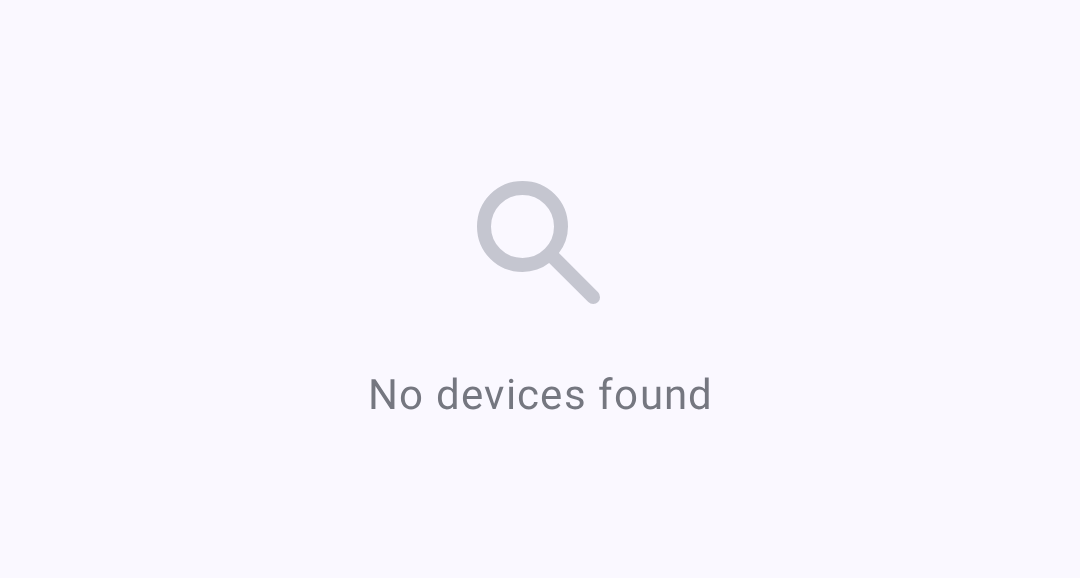
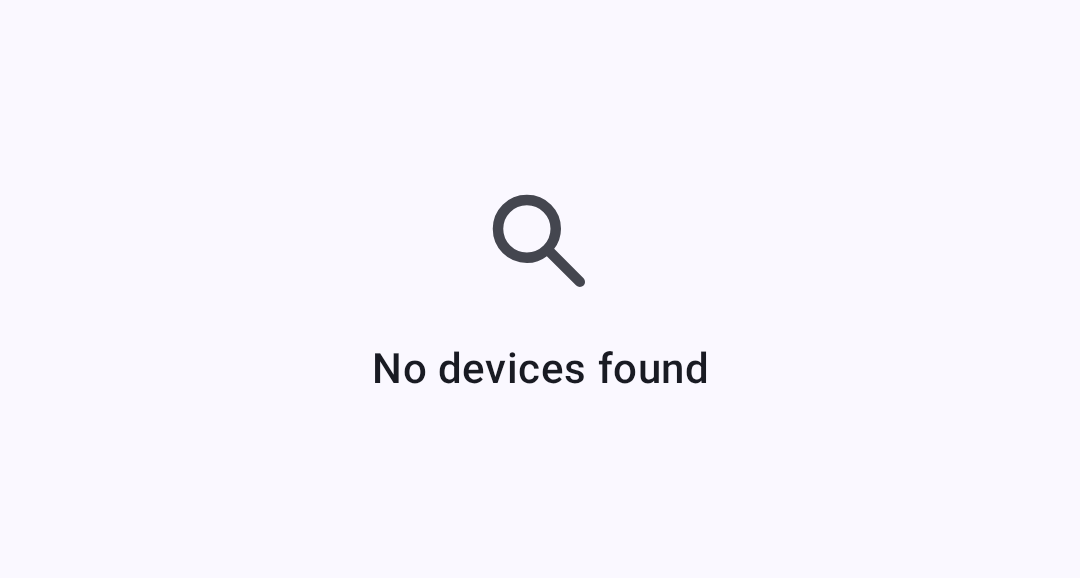
refactor(ui): one EmptyState in core:ui
Four empty-state composables disagreed on icon size, tint and type, and
the connections one drew its text in outline, which is under 4.5:1 on
light surfaces. EmptyState takes the node list's styling: a 48 dp
onSurfaceVariant icon, a titleMedium onSurface title, an optional
bodyMedium onSurfaceVariant line and an optional action.

The node list and discovery history use it. EmptyDetailPlaceholder had
no callers and EmptyStateContent only fed a docs preview, so both are
gone and the preview renders EmptyState.

Changed region(s): [[0.3361, 0.5917, 0.6722, 0.7163], [0.4278, 0.3114, 0.5806, 0.5294]]

diff --git a/core/ui/src/commonMain/kotlin/org/meshtastic/core/ui/component/EmptyState.kt b/core/ui/src/commonMain/kotlin/org/meshtastic/core/ui/component/EmptyState.kt
@@ -14,11 +14,12 @@
  * You should have received a copy of the GNU General Public License
  * along with this program.  If not, see <https://www.gnu.org/licenses/>.
  */
-package org.meshtastic.feature.connections.ui.components
+package org.meshtastic.core.ui.component
 
 import androidx.compose.foundation.layout.Arrangement
 import androidx.compose.foundation.layout.Column
-import androidx.compose.foundation.layout.fillMaxSize
+import androidx.compose.foundation.layout.Spacer
+import androidx.compose.foundation.layout.height
 import androidx.compose.foundation.layout.padding
 import androidx.compose.foundation.layout.size
 import androidx.compose.material3.Icon
@@ -31,33 +32,48 @@ import androidx.compose.ui.graphics.vector.ImageVector
 import androidx.compose.ui.text.style.TextAlign
 import androidx.compose.ui.unit.dp
 
+/**
+ * Centered empty state: a muted icon, a title saying what is empty, an optional line saying what happens next, and an
+ * optional action. Text uses `onSurface` and `onSurfaceVariant`, which meet 4.5:1 on every surface; `outline` does not.
+ */
 @Composable
-fun EmptyStateContent(
-    text: String,
-    imageVector: ImageVector,
+fun EmptyState(
+    icon: ImageVector,
+    title: String,
     modifier: Modifier = Modifier,
+    supportingText: String? = null,
     action: (@Composable () -> Unit)? = null,
 ) {
     Column(
-        modifier = modifier.fillMaxSize().padding(16.dp),
-        verticalArrangement = Arrangement.Center,
+        modifier = modifier.padding(horizontal = 32.dp, vertical = 24.dp),
         horizontalAlignment = Alignment.CenterHorizontally,
+        verticalArrangement = Arrangement.Center,
     ) {
         Icon(
-            imageVector = imageVector,
+            imageVector = icon,
             contentDescription = null,
-            modifier = Modifier.size(64.dp),
-            tint = MaterialTheme.colorScheme.outlineVariant,
+            modifier = Modifier.size(48.dp),
+            tint = MaterialTheme.colorScheme.onSurfaceVariant,
         )
+        Spacer(modifier = Modifier.height(12.dp))
         Text(
-            text = text,
-            modifier = Modifier.padding(top = 16.dp),
-            style = MaterialTheme.typography.bodyLarge,
+            text = title,
+            style = MaterialTheme.typography.titleMedium,
+            color = MaterialTheme.colorScheme.onSurface,
             textAlign = TextAlign.Center,
-            color = MaterialTheme.colorScheme.outline,
         )
+        if (supportingText != null) {
+            Spacer(modifier = Modifier.height(4.dp))
+            Text(
+                text = supportingText,
+                style = MaterialTheme.typography.bodyMedium,
+                color = MaterialTheme.colorScheme.onSurfaceVariant,
+                textAlign = TextAlign.Center,
+            )
+        }
         if (action != null) {
-            Column(modifier = Modifier.padding(top = 24.dp)) { action() }
+            Spacer(modifier = Modifier.height(16.dp))
+            action()
         }
     }
 }

diff --git a/feature/node/src/commonMain/kotlin/org/meshtastic/feature/node/list/NodeListScreen.kt b/feature/node/src/commonMain/kotlin/org/meshtastic/feature/node/list/NodeListScreen.kt
@@ -57,7 +57,6 @@ import androidx.compose.ui.Alignment
 import androidx.compose.ui.Modifier
 import androidx.compose.ui.graphics.graphicsLayer
 import androidx.compose.ui.graphics.vector.ImageVector
-import androidx.compose.ui.text.style.TextAlign
 import androidx.compose.ui.unit.dp
 import androidx.lifecycle.compose.collectAsStateWithLifecycle
 import kotlinx.coroutines.flow.Flow
@@ -82,6 +81,7 @@ import org.meshtastic.core.resources.nodes_unheard_banner_one
 import org.meshtastic.core.resources.nodes_unheard_keep
 import org.meshtastic.core.resources.nodes_unheard_remove
 import org.meshtastic.core.resources.set_up_connection
+import org.meshtastic.core.ui.component.EmptyState
 import org.meshtastic.core.ui.component.MainAppBar
 import org.meshtastic.core.ui.component.MeshtasticImportFAB
 import org.meshtastic.core.ui.component.NodeItem
@@ -440,36 +440,18 @@ private fun NodeListEmptyState(
                 stringResource(Res.string.nodes_empty_disconnected_hint),
             )
         }
-    Column(
-        modifier = modifier.padding(horizontal = 32.dp, vertical = 24.dp),
-        horizontalAlignment = Alignment.CenterHorizontally,
-        verticalArrangement = Arrangement.Center,
-    ) {
-        Icon(
-            imageVector = icon,
-            contentDescription = null,
-            modifier = Modifier.size(48.dp),
-            tint = MaterialTheme.colorScheme.onSurfaceVariant,
-        )
-        Spacer(modifier = Modifier.height(12.dp))
-        Text(
-            text = title,
-            style = MaterialTheme.typography.titleMedium,
-            color = MaterialTheme.colorScheme.onSurface,
-            textAlign = TextAlign.Center,
-        )
-        Spacer(modifier = Modifier.height(4.dp))
-        Text(
-            text = hint,
-            style = MaterialTheme.typography.bodyMedium,
-            color = MaterialTheme.colorScheme.onSurfaceVariant,
-            textAlign = TextAlign.Center,
-        )
-        if (!isConnected) {
-            Spacer(modifier = Modifier.height(16.dp))
-            Button(onClick = onNavigateToConnections) { Text(stringResource(Res.string.set_up_connection)) }
-        }
-    }
+    EmptyState(
+        icon = icon,
+        title = title,
+        supportingText = hint,
+        modifier = modifier,
+        action =
+        if (isConnected) {
+            null
+        } else {
+            { Button(onClick = onNavigateToConnections) { Text(stringResource(Res.string.set_up_connection)) } }
+        },
+    )
 }
 
 /**

diff --git a/feature/connections/src/commonMain/kotlin/org/meshtastic/feature/connections/component/ConnectionsPreviews.kt b/feature/connections/src/commonMain/kotlin/org/meshtastic/feature/connections/component/ConnectionsPreviews.kt
@@ -17,6 +17,7 @@
 package org.meshtastic.feature.connections.component
 
 import androidx.compose.foundation.layout.Box
+import androidx.compose.foundation.layout.fillMaxSize
 import androidx.compose.foundation.layout.fillMaxWidth
 import androidx.compose.foundation.layout.height
 import androidx.compose.foundation.layout.padding
@@ -29,11 +30,15 @@ import androidx.compose.ui.unit.dp
 import kotlinx.coroutines.flow.MutableStateFlow
 import kotlinx.coroutines.flow.StateFlow
 import kotlinx.coroutines.flow.asStateFlow
+import org.jetbrains.compose.resources.stringResource
 import org.meshtastic.core.ble.BleConnectionState
 import org.meshtastic.core.ble.BleDevice
 import org.meshtastic.core.model.ConnectionState
 import org.meshtastic.core.model.DeviceType
 import org.meshtastic.core.model.Node
+import org.meshtastic.core.resources.Res
+import org.meshtastic.core.resources.no_devices_found
+import org.meshtastic.core.ui.component.EmptyState
 import org.meshtastic.core.ui.icon.MeshtasticIcons
 import org.meshtastic.core.ui.icon.Search
 import org.meshtastic.core.ui.theme.AppTheme
@@ -45,7 +50,6 @@ import org.meshtastic.feature.connections.ui.components.DeviceList
 import org.meshtastic.feature.connections.ui.components.DeviceListItem
 import org.meshtastic.feature.connections.ui.components.DeviceSectionHeader
 import org.meshtastic.feature.connections.ui.components.DisconnectButton
-import org.meshtastic.feature.connections.ui.components.EmptyStateContent
 import org.meshtastic.feature.connections.ui.components.TransportSelector
 import org.meshtastic.proto.User
 
@@ -101,11 +105,14 @@ fun ConnectingDeviceInfoPreview() {
 @PreviewLightDark
 @Composable
 fun EmptyStateContentPreview() {
-    // Bounded height so the docs reference is a tight crop of the empty-state block, not a full-screen frame
-    // (EmptyStateContent fills its parent to center its content).
+    // Bounded height so the docs reference is a tight crop of the empty-state block, not a full-screen frame.
     AppTheme {
         Surface(modifier = Modifier.fillMaxWidth().height(220.dp)) {
-            EmptyStateContent(text = "No devices found", imageVector = MeshtasticIcons.Search)
+            EmptyState(
+                icon = MeshtasticIcons.Search,
+                title = stringResource(Res.string.no_devices_found),
+                modifier = Modifier.fillMaxSize(),
+            )
         }
     }
 }

diff --git a/feature/discovery/src/commonMain/kotlin/org/meshtastic/feature/discovery/ui/DiscoveryHistoryScreen.kt b/feature/discovery/src/commonMain/kotlin/org/meshtastic/feature/discovery/ui/DiscoveryHistoryScreen.kt
@@ -18,7 +18,6 @@ package org.meshtastic.feature.discovery.ui
 
 import androidx.compose.foundation.clickable
 import androidx.compose.foundation.layout.Arrangement
-import androidx.compose.foundation.layout.Box
 import androidx.compose.foundation.layout.Column
 import androidx.compose.foundation.layout.Row
 import androidx.compose.foundation.layout.Spacer
@@ -65,6 +64,7 @@ import org.meshtastic.core.resources.discovery_history
 import org.meshtastic.core.resources.discovery_scan_complete
 import org.meshtastic.core.resources.discovery_scan_incomplete
 import org.meshtastic.core.resources.discovery_unique_nodes
+import org.meshtastic.core.ui.component.EmptyState
 import org.meshtastic.core.ui.icon.ArrowBack
 import org.meshtastic.core.ui.icon.CheckCircle
 import org.meshtastic.core.ui.icon.Delete
@@ -118,22 +118,11 @@ fun DiscoveryHistoryScreen(
 
 @Composable
 private fun EmptyHistoryState(modifier: Modifier = Modifier) {
-    Box(modifier = modifier, contentAlignment = Alignment.Center) {
-        Column(horizontalAlignment = Alignment.CenterHorizontally) {
-            Icon(
-                imageVector = MeshtasticIcons.History,
-                contentDescription = null,
-                modifier = Modifier.size(64.dp),
-                tint = MaterialTheme.colorScheme.onSurfaceVariant,
-            )
-            Spacer(Modifier.height(16.dp))
-            Text(
-                text = stringResource(Res.string.discovery_empty_history),
-                style = MaterialTheme.typography.bodyLarge,
-                color = MaterialTheme.colorScheme.onSurfaceVariant,
-            )
-        }
-    }
+    EmptyState(
+        icon = MeshtasticIcons.History,
+        title = stringResource(Res.string.discovery_empty_history),
+        modifier = modifier,
+    )
 }
 
 @Composable

diff --git a/.skills/compose-ui/SKILL.md b/.skills/compose-ui/SKILL.md
@@ -12,6 +12,7 @@ Guidelines for building shared UI, adaptive layouts, and handling strings/resour
 - **Material 3 / Adaptive:** Use `currentWindowAdaptiveInfoV2()`, which includes the Large (1200dp) and XL (1600dp) width classes; `currentWindowAdaptiveInfo(supportLargeAndXLargeWidth = true)` is deprecated in its favour. Investigate 3-pane "Power User" scenes using Navigation 3 Scenes and draggable dividers for desktopApp/tablets.
 - **Dialogs & Alerts:** Use centralized components like `AlertHost(alertManager)` from `core:ui/commonMain`. Do NOT trigger alerts inline or duplicate alert logic. Use `SharedDialogs(uiViewModel)` for general popups.
 - **Placeholders:** Use `PlaceholderScreen(name)` from `core:ui/commonMain` for unimplemented desktopApp/JVM features.
+- **Empty states:** Use `EmptyState(icon, title, supportingText, action)` from `core:ui/commonMain` for an empty list or pane rather than a hand-built icon-and-text column.
 - **Theme Picker:** Use `ThemePickerDialog` from `feature:settings/commonMain`.
 - **Platform Implementations:** Inject platform-specific behavior (e.g., Map providers) via `CompositionLocal` from the `androidApp` or `desktopApp` shells. Do not tightly couple Google Maps dependencies to `commonMain`; the MapLibre surfaces live in `:feature:map-maplibre`, not in a `core` module.
 

diff --git a/feature/connections/README.md b/feature/connections/README.md
@@ -39,7 +39,6 @@ src/
 │   │       ├── CurrentlyConnectedInfo.kt
 │   │       ├── DeviceList.kt / DeviceListItem.kt / DeviceSectionHeader.kt
 │   │       ├── DisconnectButton.kt
-│   │       ├── EmptyStateContent.kt
 │   │       └── TransportSelector.kt
 │   └── di/
 │       └── FeatureConnectionsModule.kt
